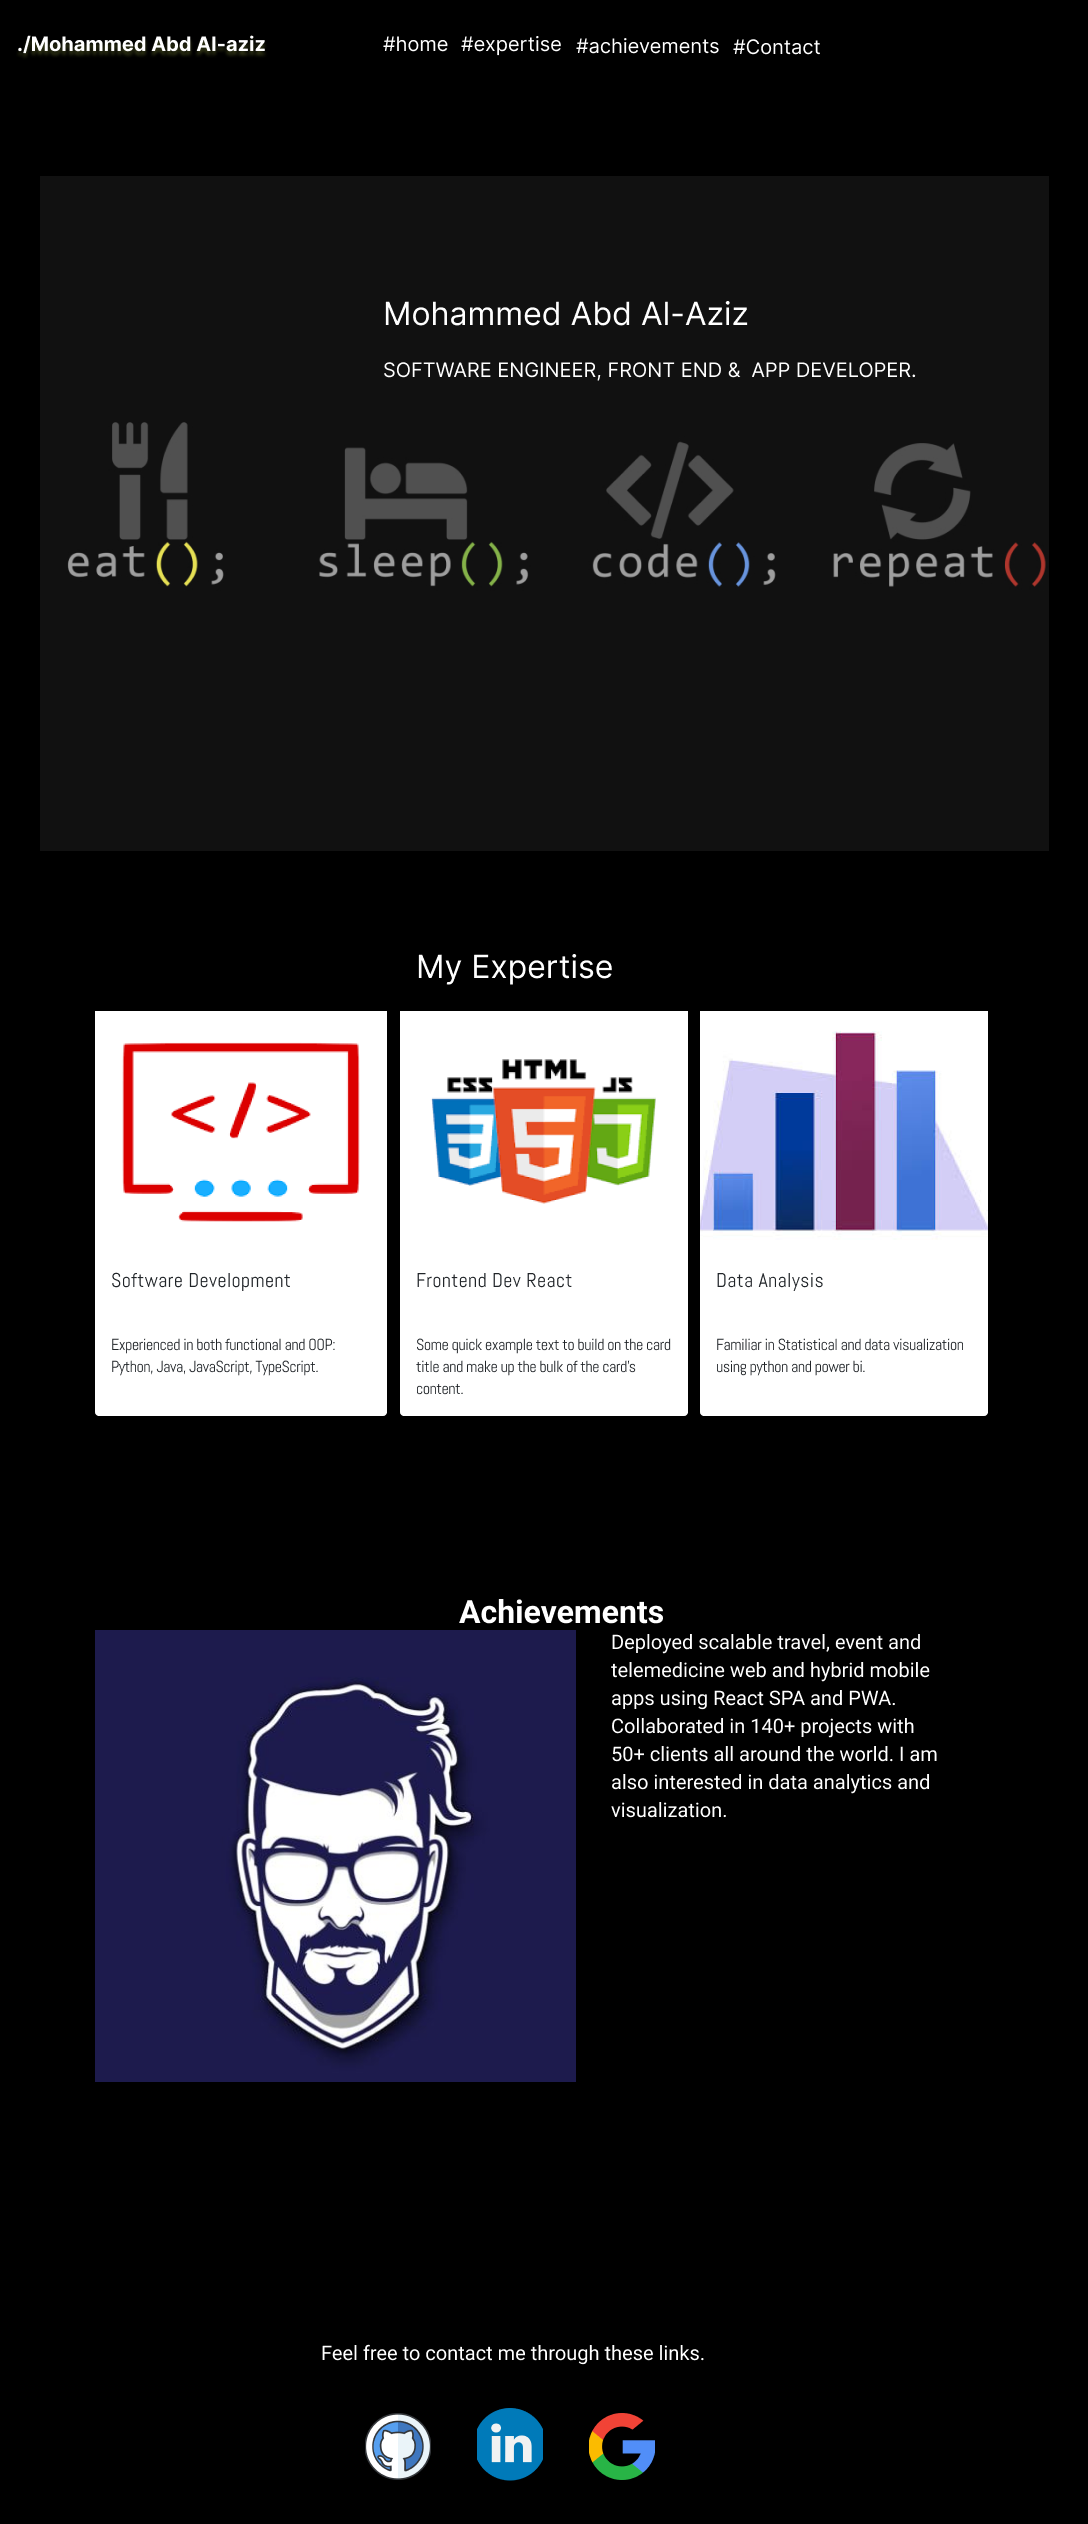
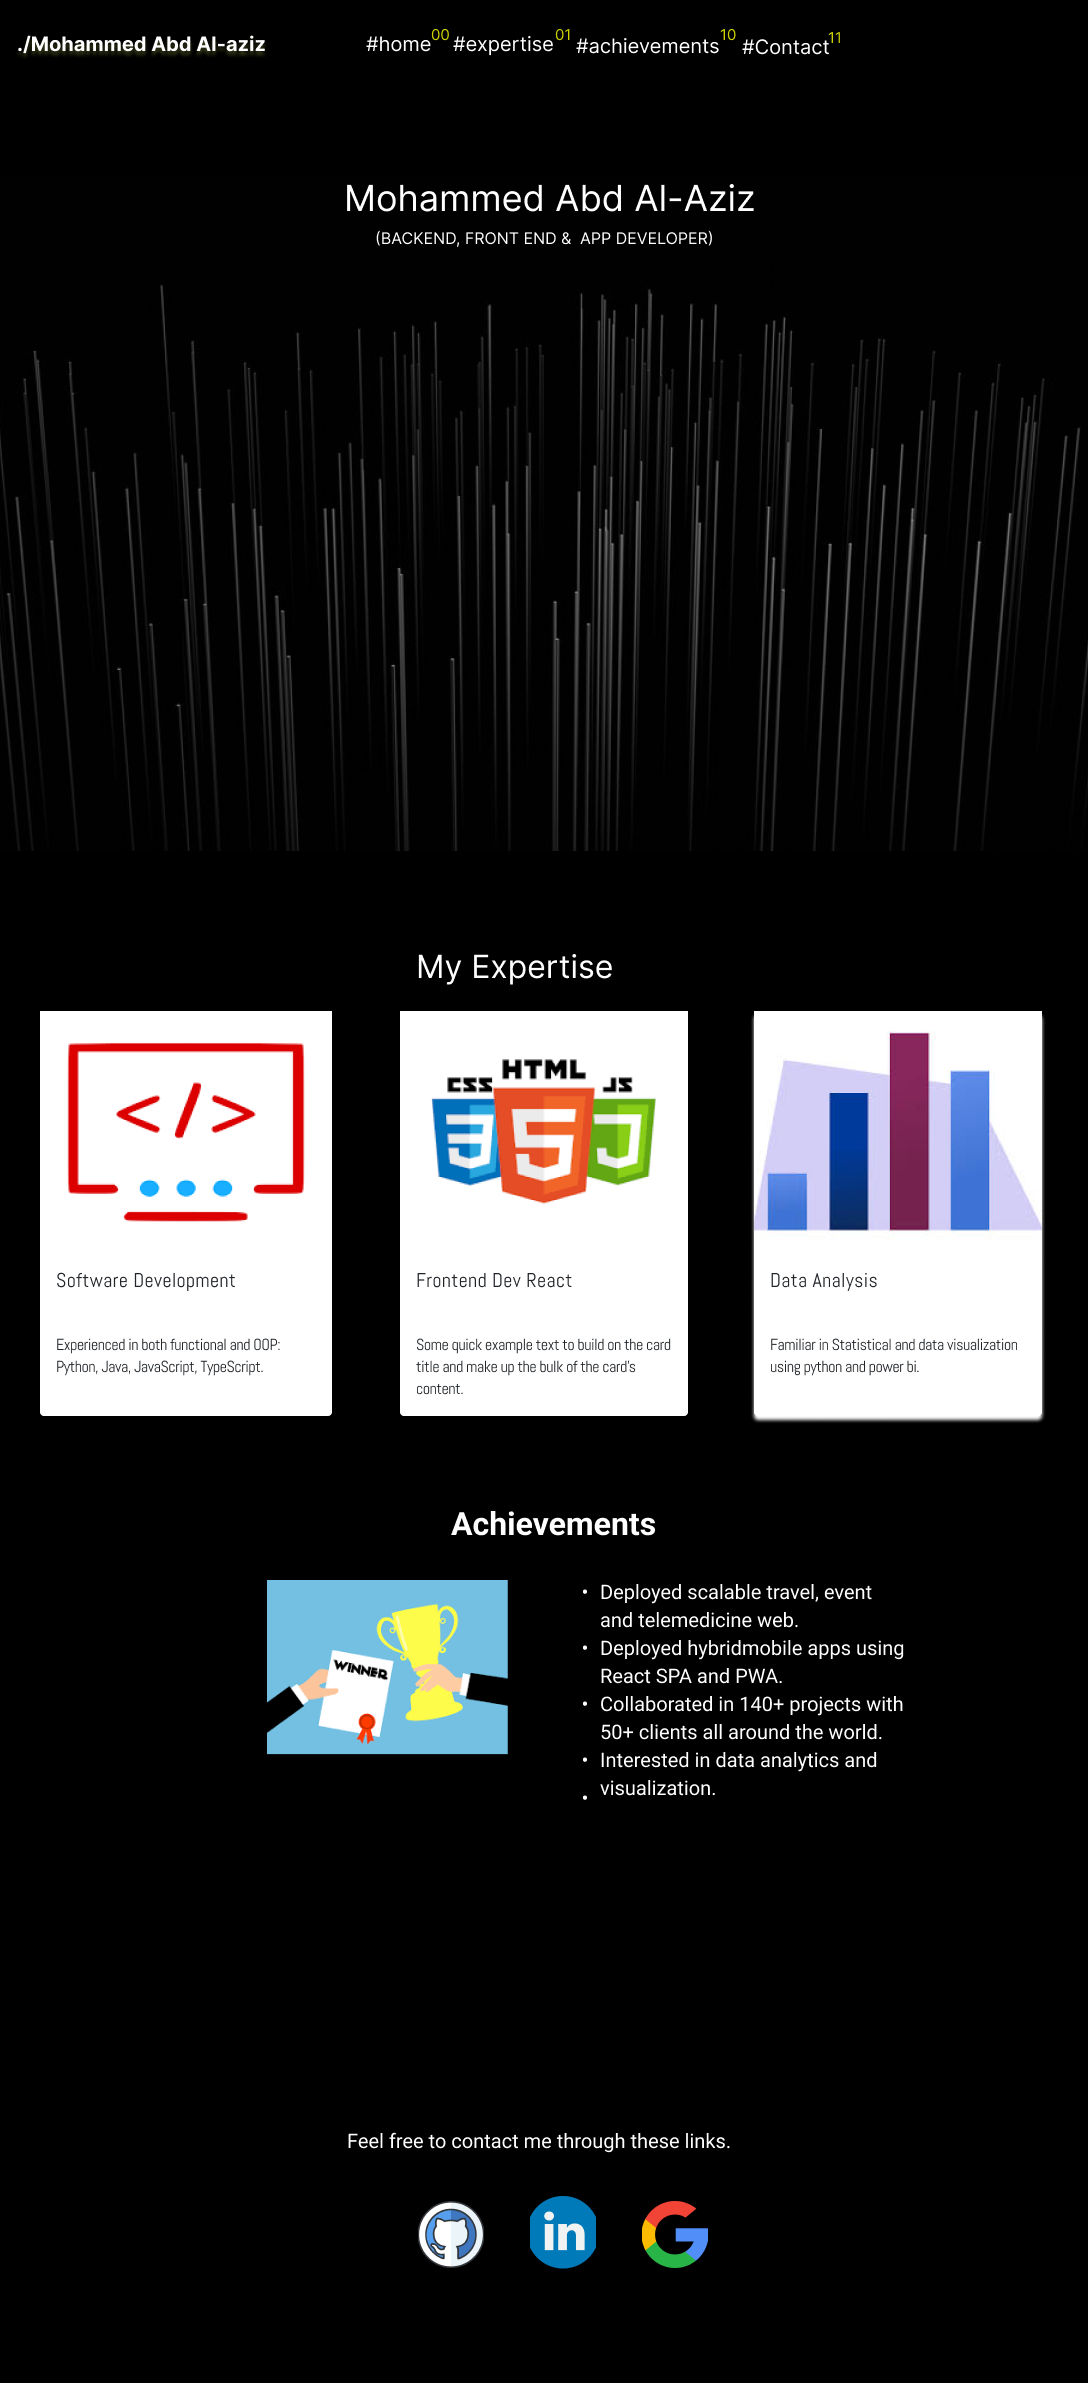
more Adjustments

diff --git a/index.html b/index.html
@@ -92,7 +92,7 @@
         <nav class="navbar navbar-expand-lg navbar-dark bg-black sticky-lg-top sticky-mid-top ">
 
             <div class="container justify-content-center">
-                <a class="navbar-brand">./Mohammed Abd Al-aziz</a>
+                <a class="navbar-brand">./mohammedAbdAl-aziz</a>
 
                 <button class="navbar-toggler" type="button" data-bs-toggle="collapse" data-bs-target="#navbarNav"
                     aria-controls="navbarNav" aria-expanded="false" aria-label="Toggle navigation ">
@@ -111,7 +111,7 @@
                             <a class="nav-link" href="#edu">#achievements <sup style="color: yellow;">10</sup></a>
                         </li>
                         <li class="nav-item fs-5">
-                            <a class="nav-link" href="#con">#contact <sup style="color: yellow;">11</sup></a>
+                            <a class="nav-link" href="#con">#contactMe <sup style="color: yellow;">11</sup></a>
                         </li>
                     </ul>
                 </div>
@@ -132,8 +132,8 @@
             <div class="col-12 animate__animated animate__bounce">
                 <h1>Mohammed Abd
                     Al-Aziz</h1>
-                <p>BACK END, FRONT END &
-                    APP DEVELOPER.</p>
+                <p>(BACK END, FRONT END,
+                    APP DEVELOPER)</p>
             </div>
         </div>
     </div>
@@ -142,11 +142,7 @@
 
 
 
-    <div class="container-fluid">
-        <div class="row ">
-
-        </div>
-    </div>
+   
 
 
 
@@ -227,11 +223,11 @@
     <br><br><br id="edu">
     <br><br><br><br><br><br>
 
-    <!-- Education an certifications -->
+    <!-- Achievements -->
 
 
     <div class="container ">
-        <div class="row justify-content-evenly ">
+        <div class="row justify-content-evenly">
             <h1 class="text-center text-light headLineStyle p-5 animate__bounceIn">Achievements</h1>
             <img class="col-lg-3 col-md-5 col-sm-8 img-fluid" src=".//images.png" alt="">
 

diff --git a/README.md b/README.md
@@ -2,7 +2,7 @@
 _A responsive static web application that present my skills, my experiences and achievements gathered into a form of Portfolio._
 ## Portfolio Wireframe image:
 
-![Wirframe image](./image%202.png "Wirframe image ")
+![Wireframe image](./Frame%202.png "Wireframe image ")
 
 ## Portfolio Mockup image:
 
